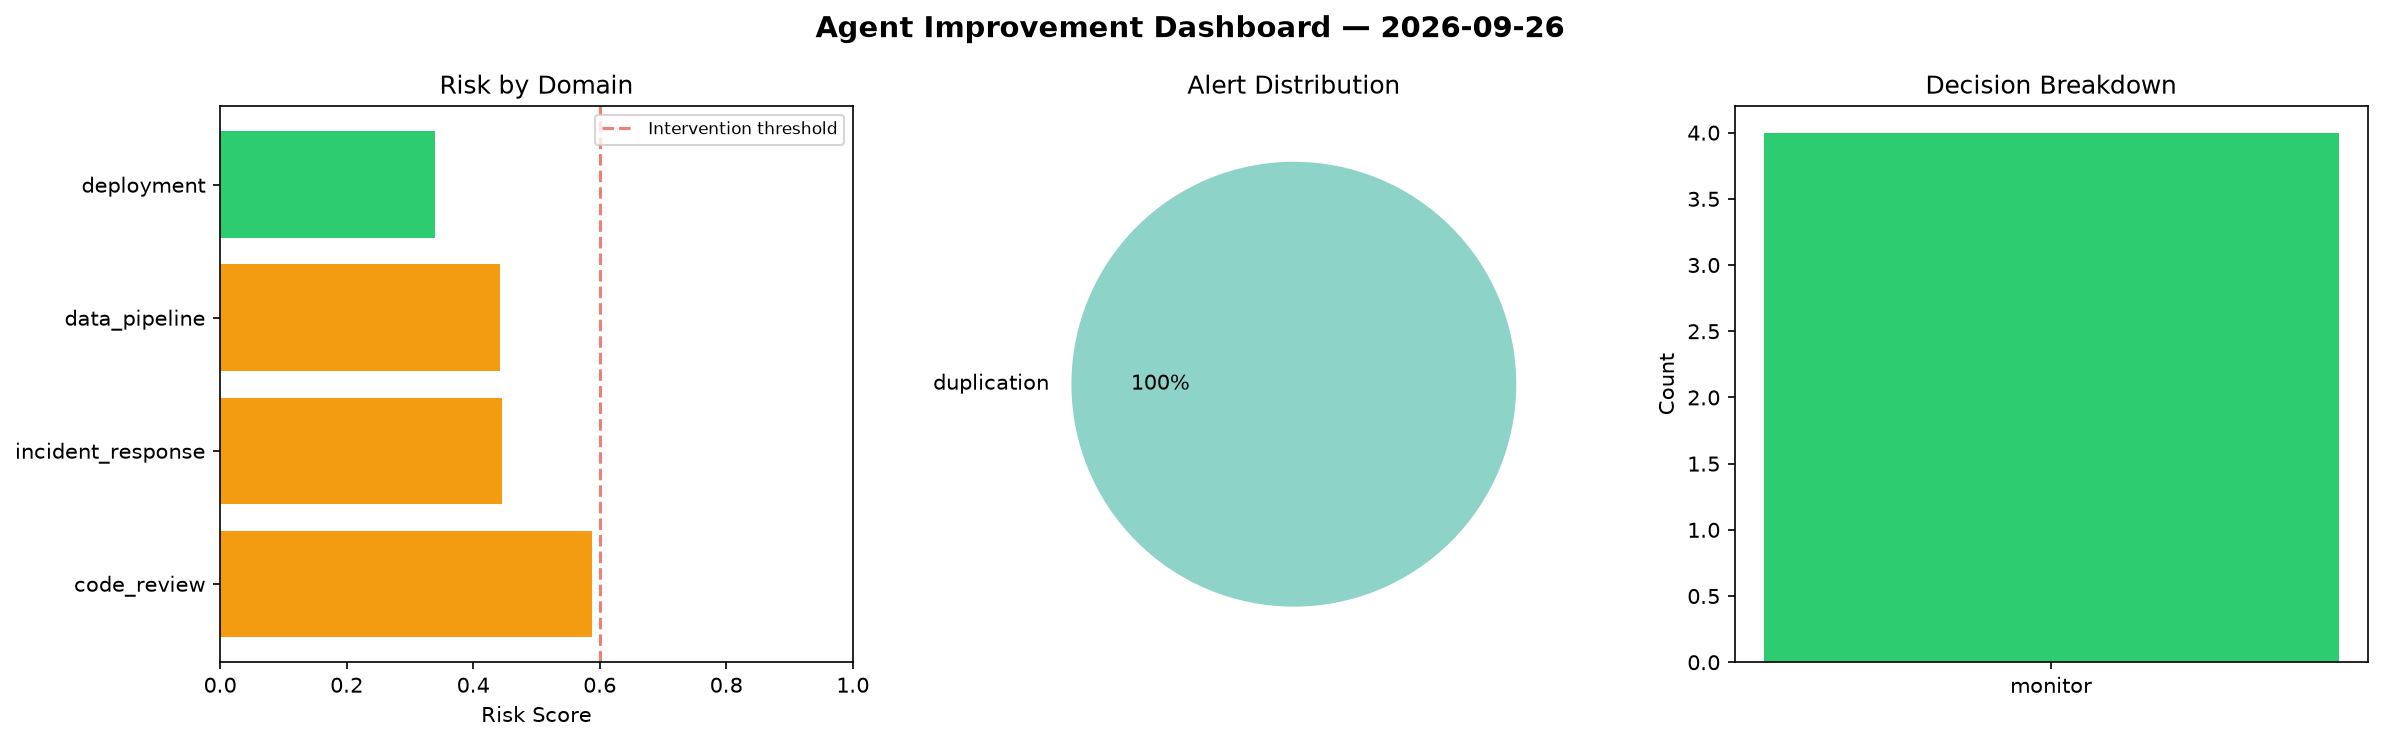
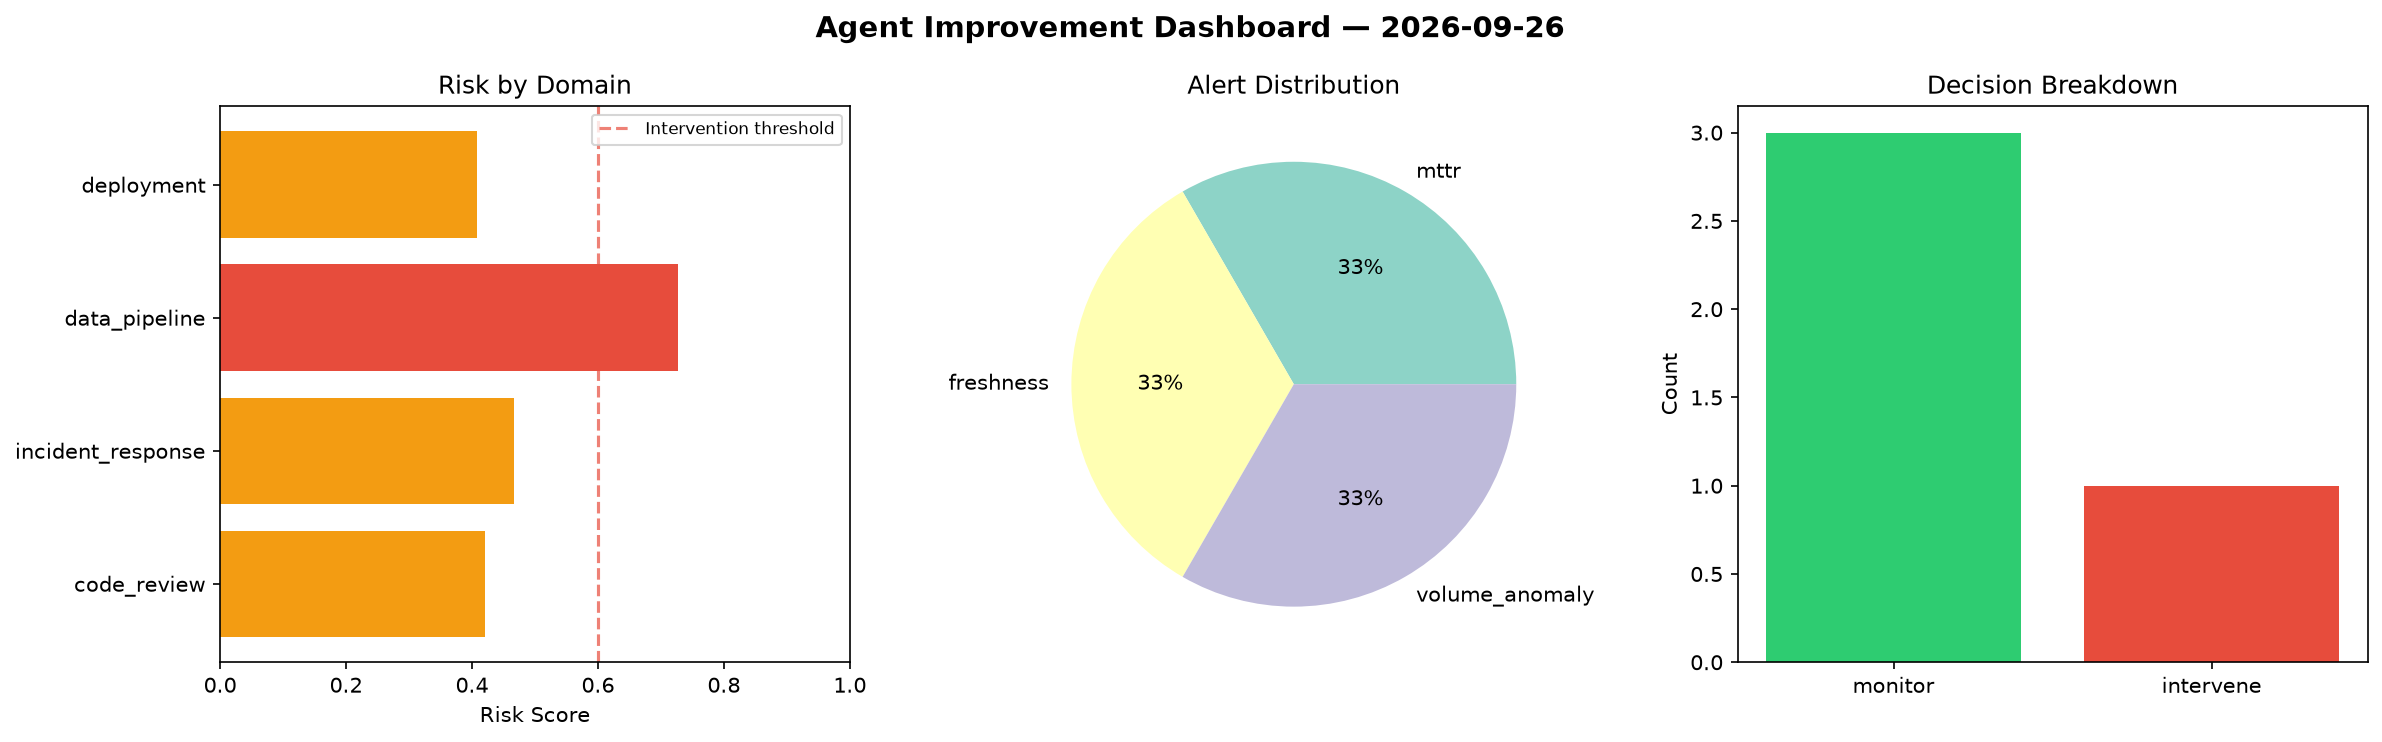
agent-improvement: daily cycle 2026-09-26T22:47

diff --git a/logs/2026-09-26.md b/logs/2026-09-26.md
@@ -1,6 +1,6 @@
 # Agent Improvement Report — 2026-09-26
 
-**Cycle ID:** `3b48a15e` | **Avg Risk:** 0.4541 | **Interventions:** 0/4
+**Cycle ID:** `a82bf10c` | **Avg Risk:** 0.5055 | **Interventions:** 1/4
 
 ![Dashboard](2026-09-26_dashboard.png)
 
@@ -10,18 +10,18 @@
 
 | Domain | Risk Score | Decision | Alerts |
 |--------|-----------|----------|--------|
-| code_review | 0.5884 | monitor | duplication |
-| incident_response | 0.4462 | monitor | none |
-| data_pipeline | 0.4422 | monitor | none |
-| deployment | 0.3397 | monitor | none |
+| code_review | 0.421 | monitor | none |
+| incident_response | 0.4666 | monitor | mttr |
+| data_pipeline | 0.7272 | intervene | freshness, volume_anomaly |
+| deployment | 0.4073 | monitor | none |
 
 ## Delta vs Yesterday
 
 | Domain | Today | Yesterday | Change |
 |--------|-------|-----------|--------|
-| code_review | 0.5884 | 0.5539 | 📈 6.2% |
-| incident_response | 0.4462 | 0.7282 | 📉 -38.7% |
-| data_pipeline | 0.4422 | 0.3813 | 📈 16.0% |
-| deployment | 0.3397 | 0.5558 | 📉 -38.9% |
+| code_review | 0.421 | 0.5539 | 📉 -24.0% |
+| incident_response | 0.4666 | 0.7282 | 📉 -35.9% |
+| data_pipeline | 0.7272 | 0.3813 | 📈 90.7% |
+| deployment | 0.4073 | 0.5558 | 📉 -26.7% |
 
 **Refinement:** `{'adjustment': 'maintain', 'trend': 'improving', 'window': 4}`
